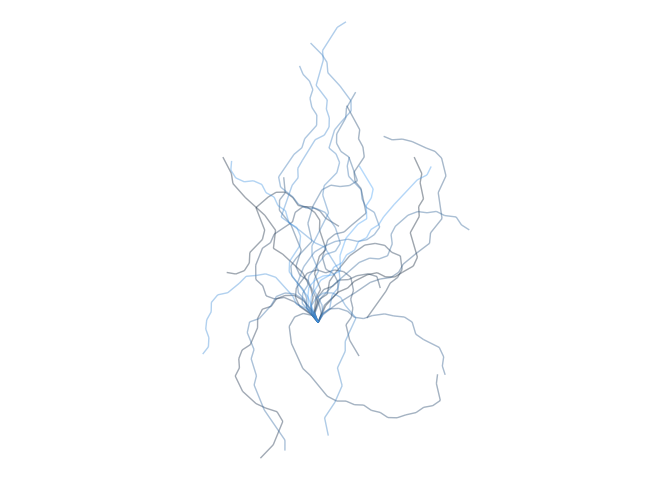
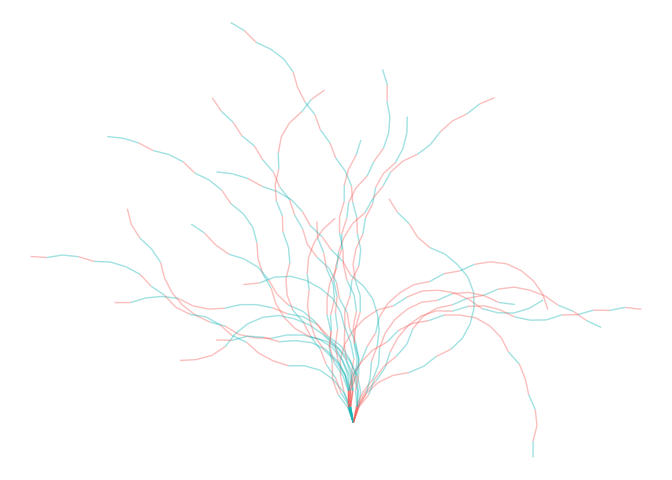
angle variable saved

diff --git a/README.md b/README.md
@@ -7,7 +7,7 @@ Todo
 
 -   variable branch peice length \[✓\]
 -   Make work with data instead of Gen \[\]
--   Save direction as variable \[\]
+-   Save direction as variable \[✓\]
 
 Packages
 ========
@@ -51,20 +51,20 @@ Example
 
 ``` r
 treeViz(5, angle_fun, length_fun)
-#> # A tibble: 119 x 5
-#>     x_from    x_to y_from  y_to group
-#>      <dbl>   <dbl>  <dbl> <dbl> <int>
-#>  1  0       0.174    1.00  1.98     1
-#>  2  0.174   0.0345   1.98  2.98     1
-#>  3  0.0345 -0.275    2.98  3.93     1
-#>  4 -0.275  -0.257    3.93  4.93     1
-#>  5 -0.257  -0.482    4.93  5.90     1
-#>  6 -0.482  -0.447    5.90  6.90     1
-#>  7 -0.447  -0.706    6.90  7.87     1
-#>  8 -0.706  -1.16     7.87  8.76     1
-#>  9 -1.16   -1.44     8.76  9.72     1
-#> 10 -1.44   -1.38     9.72 10.7      1
-#> # ... with 109 more rows
+#> # A tibble: 105 x 6
+#>     x_from    x_to y_from  y_to group  angle
+#>      <dbl>   <dbl>  <dbl> <dbl> <int>  <dbl>
+#>  1  0      -0.326    1.00  1.95     1  0.332
+#>  2 -0.326  -0.841    1.95  2.80     1  0.209
+#>  3 -0.841  -1.08     2.80  3.77     1 -0.297
+#>  4 -1.08   -1.10     3.77  4.77     1 -0.227
+#>  5 -1.10   -0.808    4.77  5.73     1 -0.314
+#>  6 -0.808  -0.338    5.73  6.61     1 -0.192
+#>  7 -0.338  -0.0962   6.61  7.58     1  0.244
+#>  8 -0.0962  0.358    7.58  8.47     1 -0.227
+#>  9  0.358   1.04     8.47  9.20     1 -0.279
+#> 10  1.04    1.84     9.20  9.81     1 -0.175
+#> # ... with 95 more rows
 ```
 
 Try of single branch
@@ -81,7 +81,35 @@ treeViz(1, angle_fun, length_fun) %>%
 
 ![](README_files/figure-markdown_github/unnamed-chunk-5-1.png)
 
+``` r
+treeViz(1, angle_fun, length_fun) %>%
+  mutate(turn_col = angle > 0) %>%
+  ggplot(aes(x = x_from, xend = x_to,
+             y = y_from, yend = y_to, 
+             group = group, color = turn_col)) +
+  geom_curve(curvature = 0) +
+  coord_fixed() +
+  theme_void() +
+  guides(color = "none")
+```
+
+![](README_files/figure-markdown_github/unnamed-chunk-6-1.png)
+
 Whole tree
+
+``` r
+treeViz(25, angle_fun, length_fun) %>%
+    mutate(turn_col = angle > 0) %>%
+  ggplot(aes(x = x_from, xend = x_to,
+             y = y_from, yend = y_to, 
+             group = group, color = turn_col)) +
+  geom_curve(curvature = 0, alpha = 0.4) +
+  coord_fixed() +
+  theme_void() +
+  guides(color = "none")
+```
+
+![](README_files/figure-markdown_github/unnamed-chunk-7-1.png)
 
 ``` r
 treeViz(25, angle_fun, length_fun) %>%
@@ -94,7 +122,7 @@ treeViz(25, angle_fun, length_fun) %>%
   guides(color = "none")
 ```
 
-![](README_files/figure-markdown_github/unnamed-chunk-6-1.png)
+![](README_files/figure-markdown_github/unnamed-chunk-8-1.png)
 
 ``` r
 angle_fun <- function(n, min_angle = 20, max_angle = 40) {
@@ -116,4 +144,4 @@ treeViz(25, angle_fun, length_fun, twig_fun) %>%
   guides(color = "none")
 ```
 
-![](README_files/figure-markdown_github/unnamed-chunk-7-1.png)
+![](README_files/figure-markdown_github/unnamed-chunk-9-1.png)
